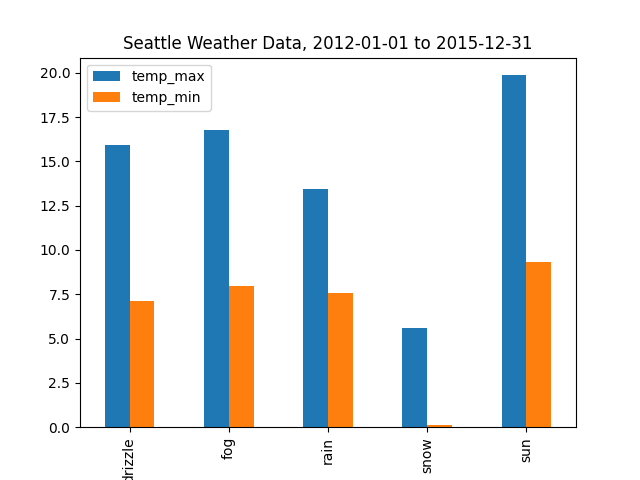
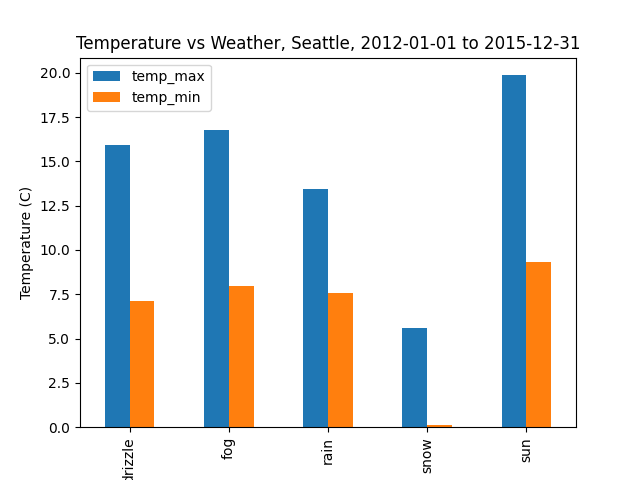
Changed barplot title and ylabel

Changed region(s): [[0.125, 0.0625, 0.9062, 0.125], [0.0312, 0.375, 0.0625, 0.625]]

diff --git a/analyzeData.py b/analyzeData.py
@@ -6,7 +6,8 @@ df = pd.read_csv('./seattle-weather.csv')
 
 weather_gb = df.groupby(['weather']).mean()
 barplot = weather_gb.plot.bar(y=['temp_max','temp_min'])
-barplot.set_title('Seattle Weather Data, 2012-01-01 to 2015-12-31')
+barplot.set_title('Temperature vs Weather, Seattle, 2012-01-01 to 2015-12-31')
+barplot.set_ylabel('Temperature (C)')
 plt.savefig('barplot.png')
 plt.close()
 
